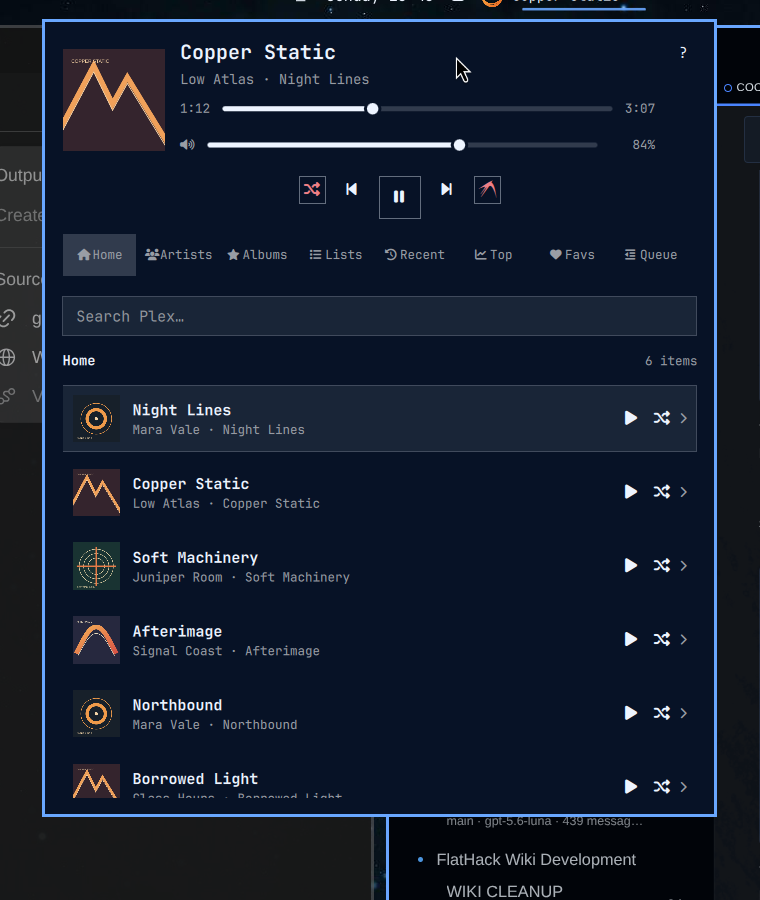
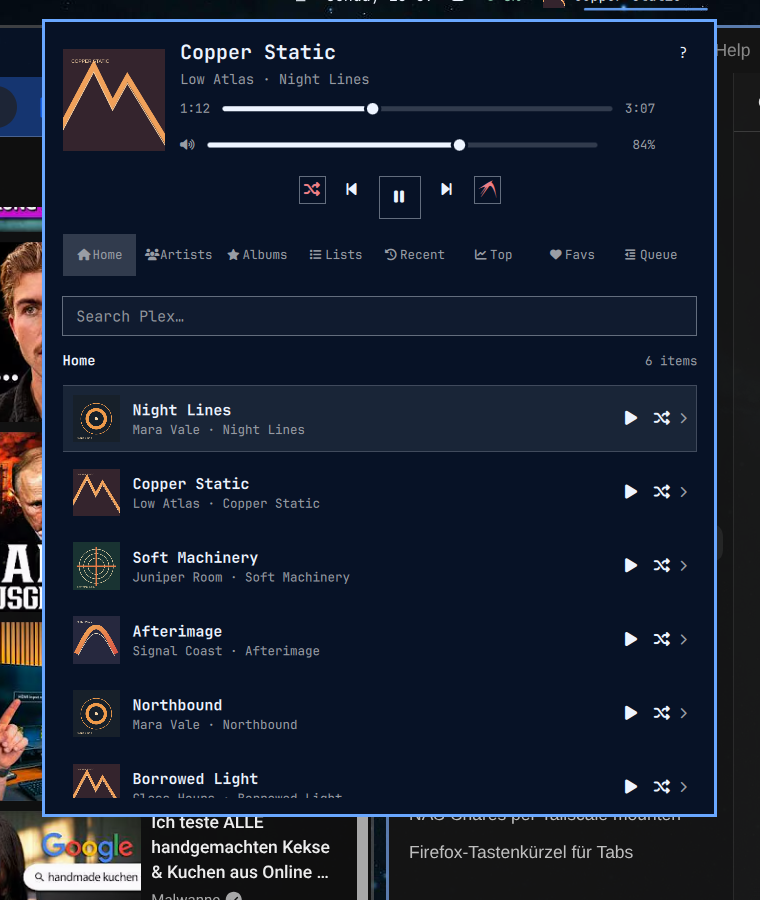
feat: show album artwork in bar

diff --git a/Panel.qml b/Panel.qml
@@ -63,6 +63,7 @@ Panel {
   readonly property color dim: Qt.darker(foreground, 1.55)
   readonly property string fontFamily: bar ? bar.fontFamily : Style.font.family
   readonly property var activeTrack: player && player.track ? player.track : null
+  readonly property string activeThumb: activeTrack ? String(activeTrack.thumb || "") : ""
   readonly property bool configured: player && player.configured === true
   readonly property string barText: Model.barLabel(player)
   readonly property bool demoMode: setting("demoMode", false) === true
@@ -457,8 +458,11 @@ Panel {
     bar: root.bar
     labelVisible: false
     hasVisualContent: true
-    fixedWidth: root.activeTrack ? Style.space(180) : -1
-    tooltipText: root.activeTrack ? Model.subtitle(root.activeTrack) : "OmaPlex Music"
+    fixedWidth: vertical ? -1 : (root.activeTrack ? Style.space(180) : Style.bar.iconSlot)
+    fixedHeight: vertical ? Style.bar.iconSlot : -1
+    tooltipText: root.activeTrack
+      ? root.activeTrack.title + (Model.subtitle(root.activeTrack) ? " · " + Model.subtitle(root.activeTrack) : "")
+      : "OmaPlex Music"
     active: root.player && root.player.playing === true
     onPressed: function(mouseButton) {
       if (mouseButton === Qt.RightButton) root.manualSetup()
@@ -470,23 +474,44 @@ Panel {
     }
 
     Row {
-      anchors.fill: parent
-      anchors.leftMargin: Style.space(8)
-      anchors.rightMargin: Style.space(8)
+      id: barContent
+      anchors.centerIn: parent
+      width: button.vertical ? coverFrame.width : parent.width - Style.space(16)
+      height: coverFrame.height
       spacing: Style.space(7)
 
-      Image {
-        width: Style.space(18)
-        height: Style.space(18)
+      Rectangle {
+        id: coverFrame
+        width: Math.min(Style.space(20), button.barSize - Style.space(8))
+        height: width
         anchors.verticalCenter: parent.verticalCenter
-        source: root.logoUrl
-        fillMode: Image.PreserveAspectFit
+        radius: Math.max(2, Style.cornerRadius / 2)
+        color: Style.selectedFillFor(button.foreground, Color.accent)
+        clip: true
         opacity: root.player && root.player.playing ? 1 : 0.78
+
+        Image {
+          id: barCover
+          anchors.fill: parent
+          source: root.activeThumb
+          fillMode: Image.PreserveAspectCrop
+          asynchronous: true
+          cache: true
+          visible: root.activeThumb !== "" && status === Image.Ready
+        }
+
+        Image {
+          anchors.fill: parent
+          anchors.margins: Style.space(2)
+          source: root.logoUrl
+          fillMode: Image.PreserveAspectFit
+          visible: !barCover.visible
+        }
       }
 
       Text {
-        visible: root.activeTrack !== null
-        width: Math.max(0, parent.width - Style.space(34))
+        visible: root.activeTrack !== null && !button.vertical
+        width: Math.max(0, parent.width - coverFrame.width - parent.spacing)
         anchors.verticalCenter: parent.verticalCenter
         text: root.activeTrack ? root.activeTrack.title : ""
         color: button.foreground

diff --git a/tests/test_qml_contract.py b/tests/test_qml_contract.py
@@ -25,6 +25,13 @@ class QmlContractTests(unittest.TestCase):
                        'control("volume"', 'control("shuffle")', 'control("repeat")'):
             self.assertIn(action, QML)
 
+    def test_bar_shows_active_album_cover_with_logo_fallback(self):
+        self.assertIn("readonly property string activeThumb", QML)
+        self.assertIn("id: barCover", QML)
+        self.assertIn("source: root.activeThumb", QML)
+        self.assertIn("visible: !barCover.visible", QML)
+        self.assertIn("fixedHeight: vertical ? Style.bar.iconSlot", QML)
+
     def test_library_and_queue_navigation_are_present(self):
         for view in ('"artists"', '"albums"', '"playlists"', '"history"', '"frequent"', '"favorites"', '"queue"'):
             self.assertIn(view, QML)

diff --git a/tests/test_player.py b/tests/test_player.py
@@ -316,7 +316,7 @@ class RepositoryContractTests(unittest.TestCase):
         self.assertEqual(manifest["schemaVersion"], 1)
         self.assertIn("bar-widget", manifest["kinds"])
         self.assertTrue((ROOT / manifest["entryPoints"]["barWidget"]).is_file())
-        self.assertEqual(manifest["version"], "0.2.4")
+        self.assertEqual(manifest["version"], "0.3.0")
         self.assertTrue((ROOT / "assets" / "omaplex.svg").is_file())
         self.assertTrue((ROOT / "preview.png").is_file())
 

diff --git a/README.md b/README.md
@@ -13,7 +13,8 @@ player. OmaPlex Music is not affiliated with or endorsed by Plex, Inc.
 - Artist → album → track and playlist → track navigation
 - Album/playlist play and shuffle actions
 - Manageable queue with play, reorder, remove, and clear-upcoming actions
-- Cover art, progress, seek, 0–130% volume, play/pause, previous, and next
+- Album cover in the bar and player, progress, seek, 0–130% volume, play/pause,
+  previous, and next
 - Shuffle, repeat-all, and repeat-one
 - MPRIS integration for hardware media keys and desktop media controls
 - Actionable offline, authentication, DNS, library, and server error states
